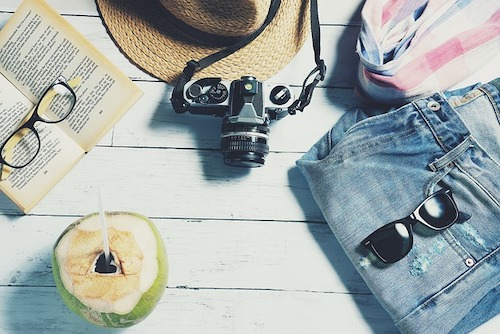
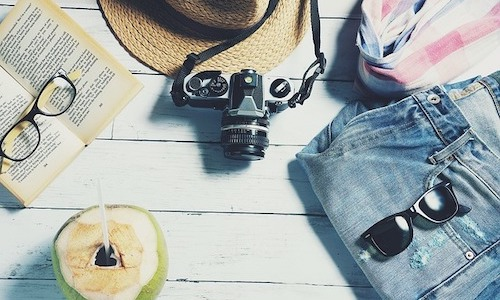
add/itinerary新規登録ページの画像サイズ、アップ時の画像リサイズ機能を実装

diff --git a/app/uploaders/itinerary_image_uploader.rb b/app/uploaders/itinerary_image_uploader.rb
@@ -18,7 +18,7 @@ class ItineraryImageUploader < CarrierWave::Uploader::Base
   end
 
   # Process files as they are uploaded:
-  # process scale: [200, 300]
+  process resize_to_fill: [500, 300, "Center"]
   #
   # def scale(width, height)
   #   # do something
